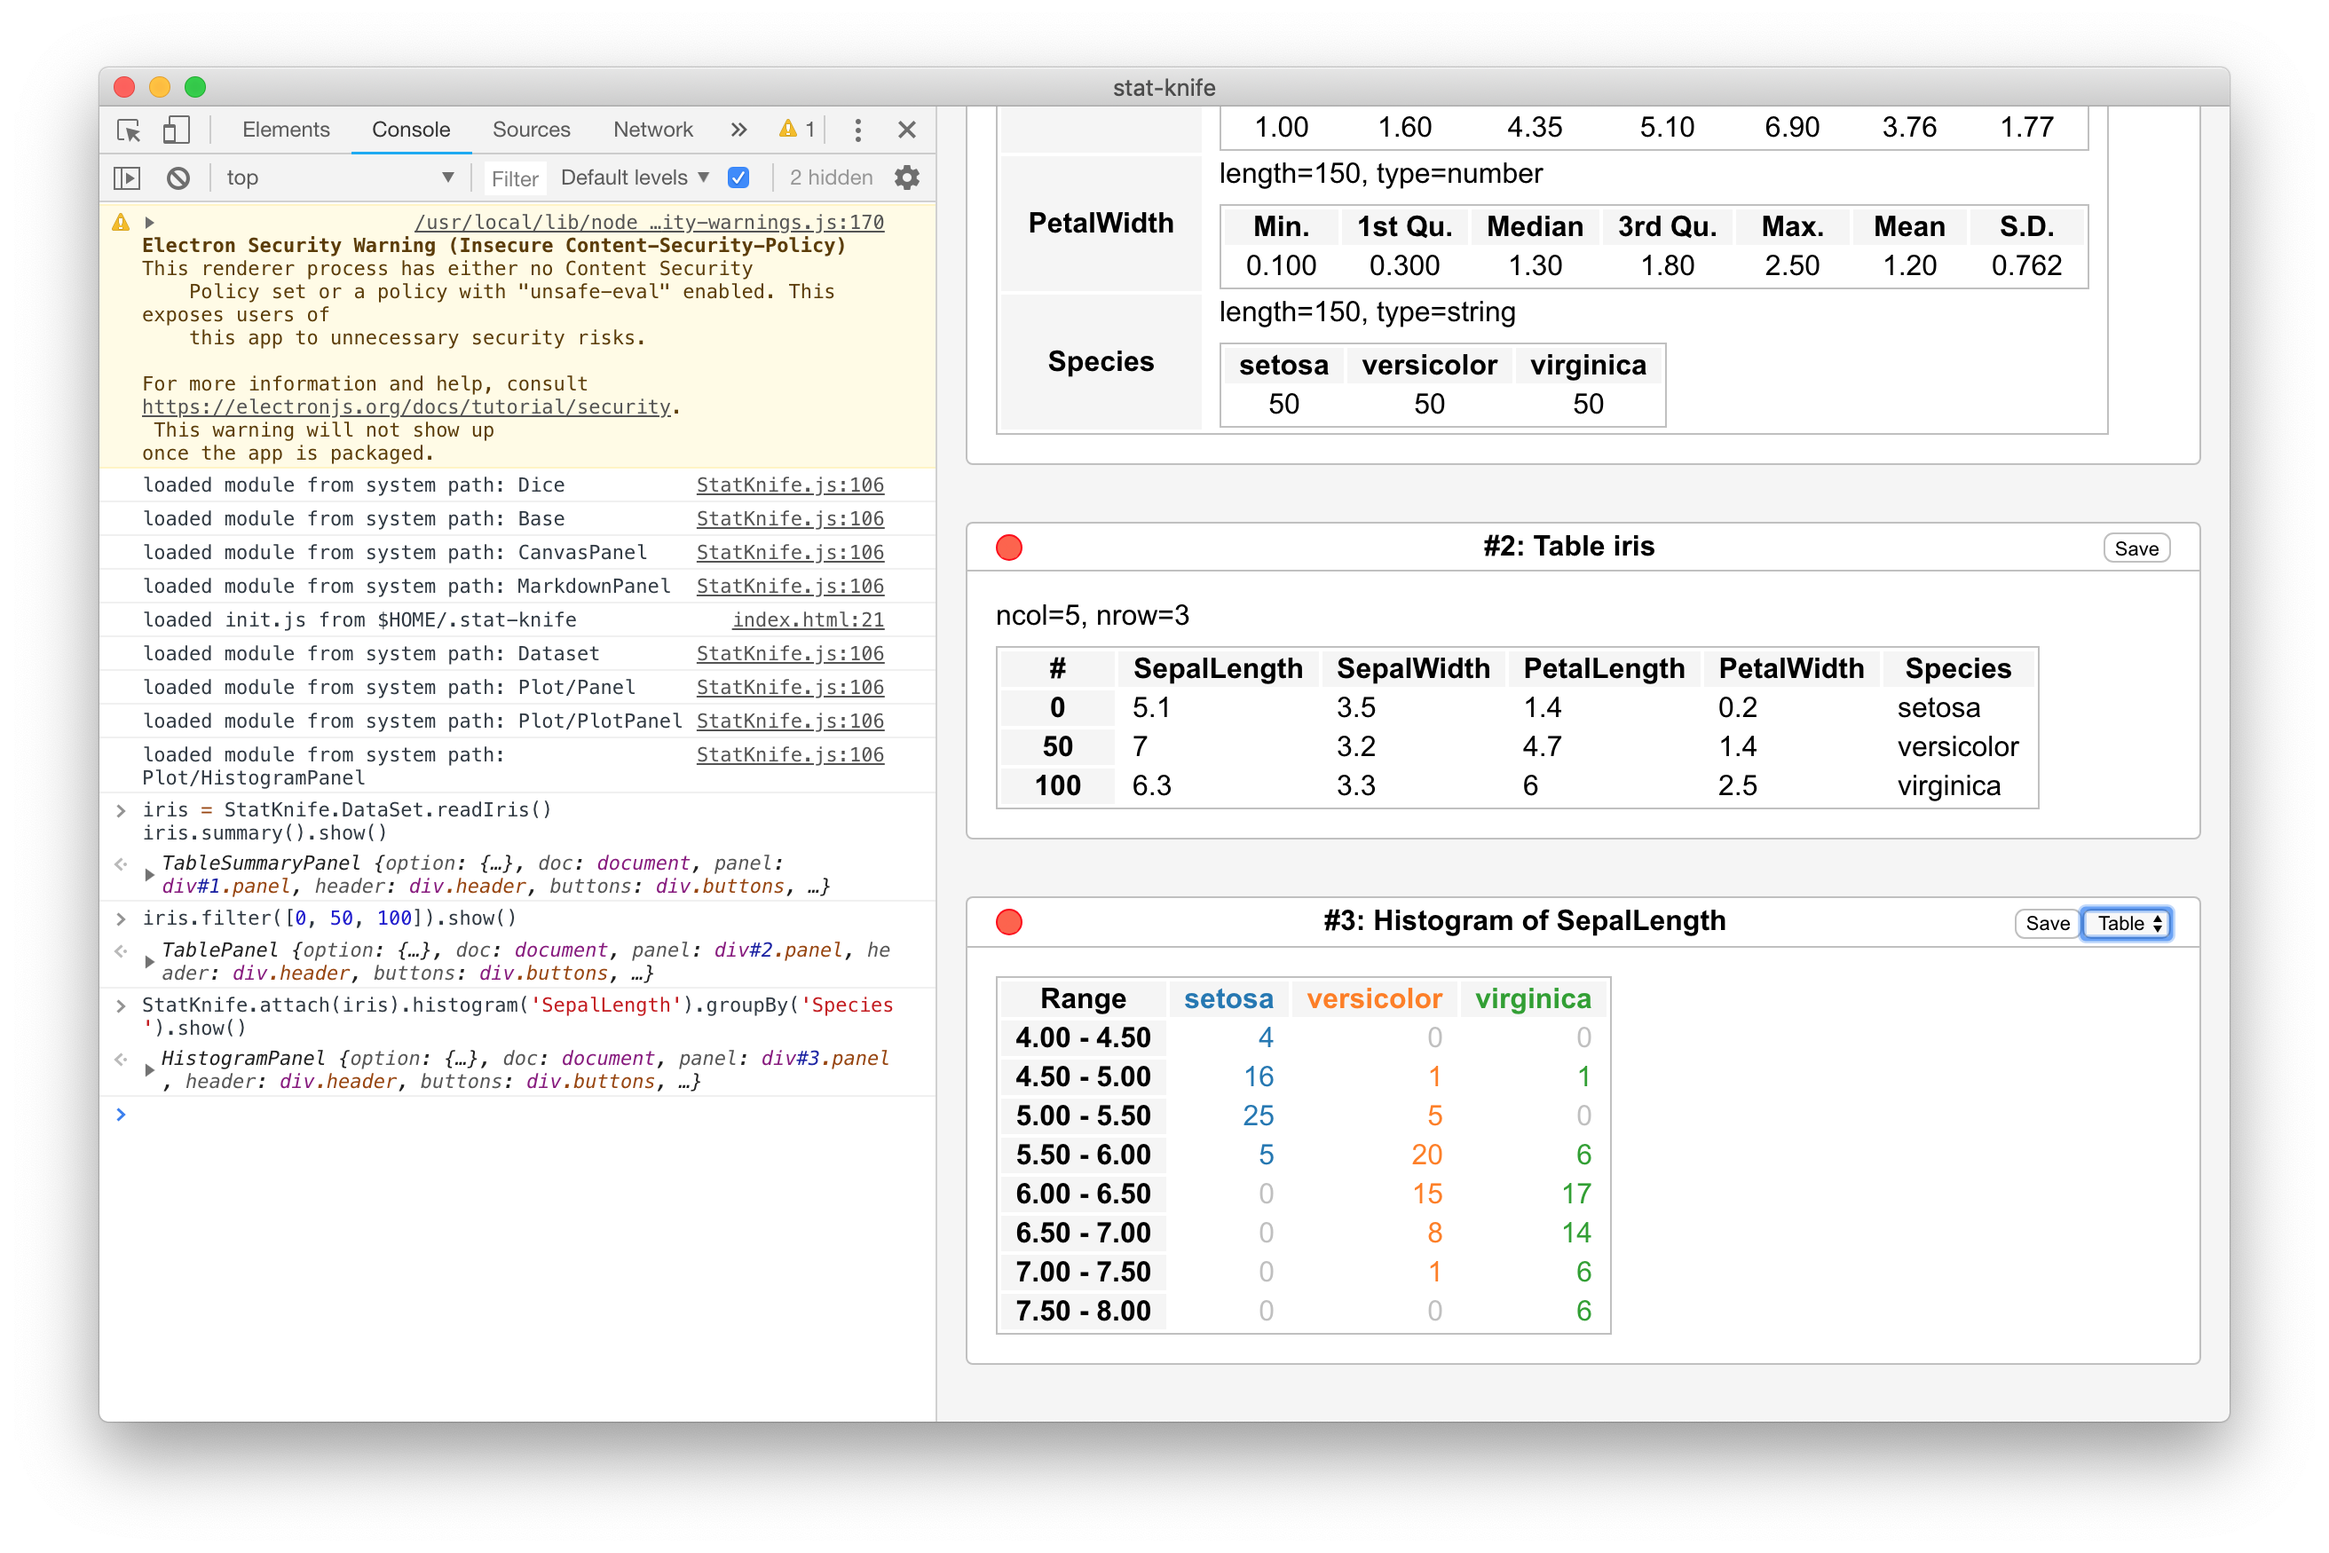
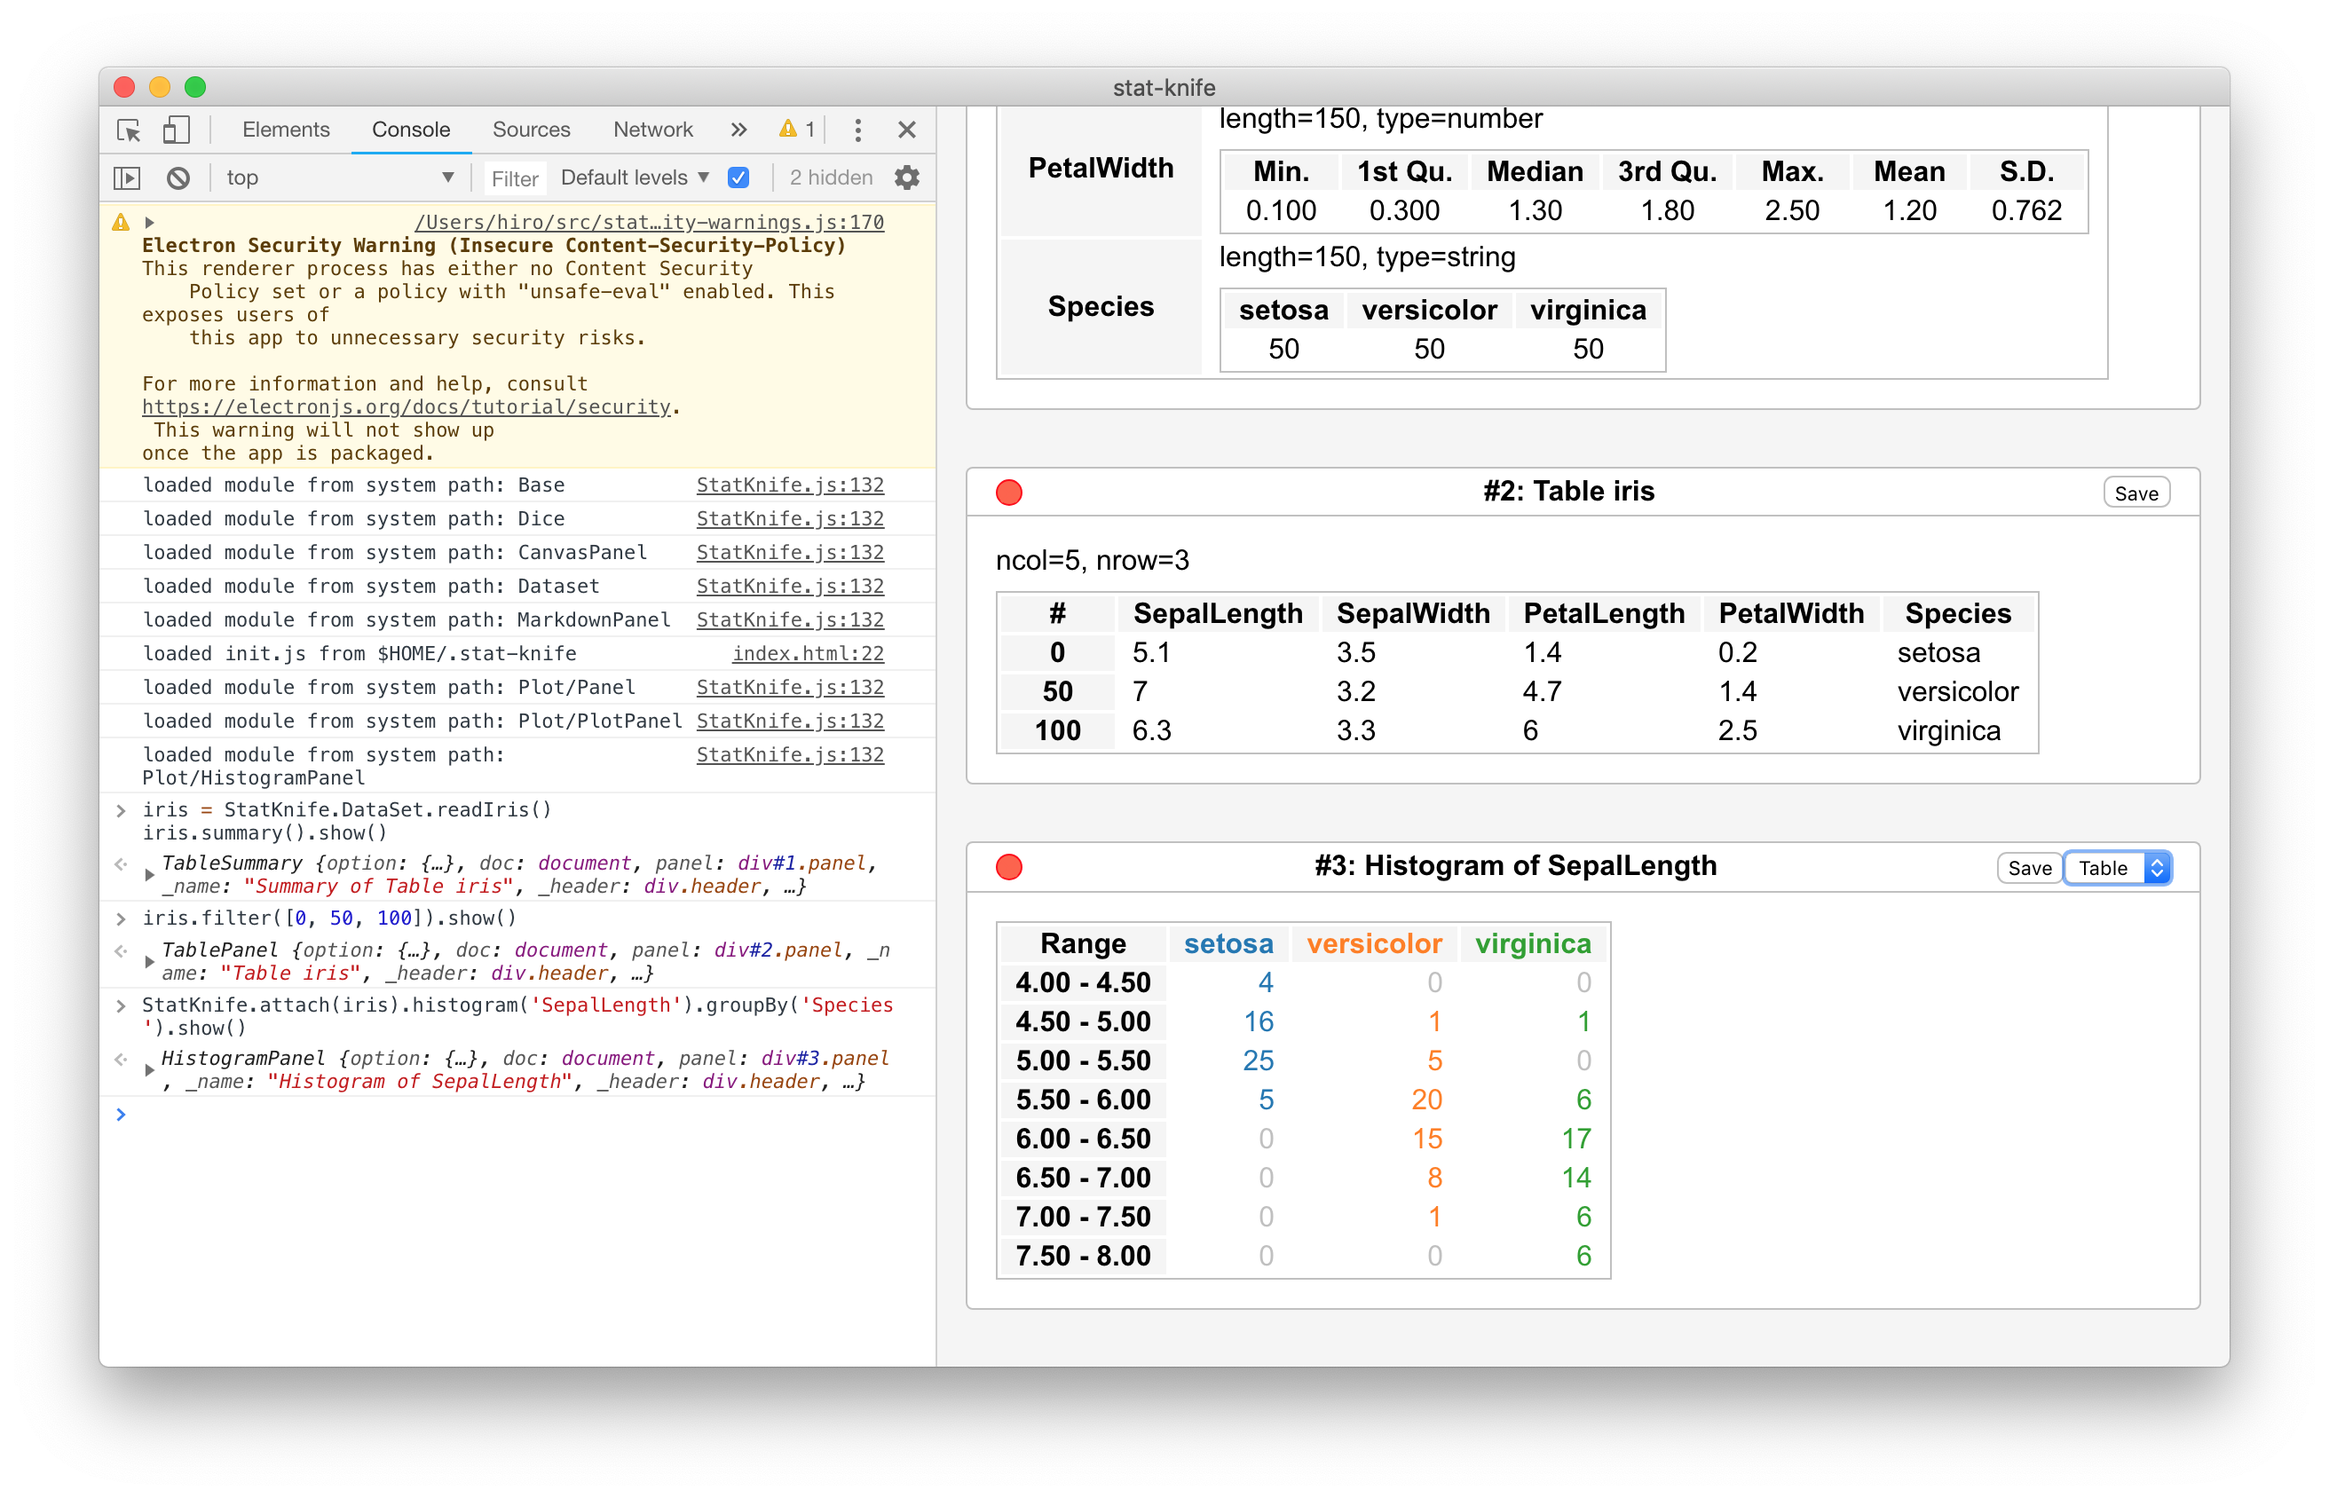
Refactored panel implementations

diff --git a/lib/DataSet.js b/lib/DataSet.js
@@ -29,16 +29,8 @@ Array.prototype.moment = function(order) {
   return s/this.length;
 };
 Array.prototype.quantiles = function(ps) {
-  const s = (new Array(...this)).sort((x, y) => x - y);
-  const n = s.length;
-  const qs = {};
-  for (const p of ps) {
-    const i = (p*(n-1)).floor(), j = (p*(n-1)).ceil();
-    const t = p*(n-1) - i;
-    qs[p] = (1-t)*s[i] + t*s[j];
-  }
-  return qs;
-};
+  return new ArrayQuantiles(this, ps);
+}
 Array.prototype.sd = function() {
   return Math.sqrt(this.var());
 };
@@ -61,25 +53,68 @@ Array.prototype.var = function() {
   return s/(this.length - 1);
 };
 
-export class ArraySummaryPanel extends StatKnife.Panel {
+export class ArrayQuantiles extends StatKnife.Panel {
+  constructor(data, ps, ...args) {
+    super('Quantiles of Array', ...args);
+    this.data = data;
+    this.ps = ps || [0.00, 0.25, 0.50, 0.75, 1.00];
+    this.name(`Quantiles of ${this.typename.capitalizeFirst()}Array`);
+  }
+  get typename() {
+    return this.data.typename();
+  }
+  get container() {
+    const container = super.container;
+    if (!this.quantileHeader) {
+      this.quantileHeader = container.createChild('div').attrs({'class': 'header'});
+      this.quantileHeader.setElem(`length=${this.data.length}, type=${this.typename}`);
+      this.quantileTable = container.createChild('table');
+      for (const key of this.ps) {
+        this.quantileTable.appendRow([this.doc.createElem('th').setElem(`${(key*100).toPrecision(3)}%`), this.table[key]]);
+      }
+    }
+    return container;
+  }
+  get table() {
+    if (!this._table) {
+      const s = (new Array(...this.data)).sort((x, y) => x - y);
+      const n = s.length;
+      this._table = {};
+      for (const p of this.ps) {
+        const i = (p*(n-1)).floor(), j = (p*(n-1)).ceil();
+        const t = p*(n-1) - i;
+        this._table[p] = (1-t)*s[i] + t*s[j];
+      }
+    }
+    return this._table;
+  }
+}
+
+export class ArraySummary extends StatKnife.Panel {
   constructor(data, ...args) {
     super('Summary of Array', ...args);
     this.data = data;
     this.name(`Summary of ${this.typename.capitalizeFirst()}Array`);
-    this.summaryHeader = this.container.createChild('div').attrs({'class': 'header'});
-    this.summaryHeader.setElem(`length=${this.data.length}, type=${this.typename}`);
-    this.summaryTable = this.container.createChild('table');
-    const hdrrow = this.summaryTable.createChild('tr');
-    for (const key in this.table) {
-      hdrrow.createChild('th').setElem(key);
-    }
-    const valrow = this.summaryTable.createChild('tr');
-    for (let value of Object.values(this.table)) {
-      if (this.typename == typeof(0) && typeof(value) == typeof(0)) {
-        value = value.toPrecision(3);
+  }
+  get container() {
+    const container = super.container;
+    if (!this.summaryHeader) {
+      this.summaryHeader = container.createChild('div').attrs({'class': 'header'});
+      this.summaryHeader.setElem(`length=${this.data.length}, type=${this.typename}`);
+      this.summaryTable = container.createChild('table');
+      const hdrrow = this.summaryTable.createChild('tr');
+      for (const key in this.table) {
+        hdrrow.createChild('th').setElem(key);
       }
-      valrow.createChild('td').attrs({class: 'center'}).setElem(value);
+      const valrow = this.summaryTable.createChild('tr');
+      for (let value of Object.values(this.table)) {
+        if (this.typename == typeof(0) && typeof(value) == typeof(0)) {
+          value = value.toPrecision(3);
+        }
+        valrow.createChild('td').attrs({class: 'center'}).setElem(value);
+      }
     }
+    return container;
   }
   get typename() {
     return this.data.typename();
@@ -87,7 +122,7 @@ export class ArraySummaryPanel extends StatKnife.Panel {
   get table() {
     if (!this._table) {
       if (this.typename == typeof(0)) {
-        const qs = this.data.quantiles([0.00, 0.25, 0.50, 0.75, 1.00]);
+        const qs = this.data.quantiles().table;
         this._table = {
           'Min.': qs[0.00], '1st Qu.': qs[0.25], 'Median': qs[0.50], '3rd Qu.': qs[0.75], 'Max.': qs[1.00],
           'Mean': this.data.mean(), 'S.D.': this.data.sd(),
@@ -127,7 +162,7 @@ Array.prototype.count = function(cb) {
 };
 
 Array.prototype.summary = function(...args) {
-  return new ArraySummaryPanel(this, ...args);
+  return new ArraySummary(this, ...args);
 };
 (function*() {})().__proto__.__proto__.summary = function(...args) {
   return this.toArray().summary(...args);
@@ -142,7 +177,7 @@ function() {
 
 Symbol.rowid = Symbol('Table.rowid');
 export class Table extends Array {
-  constructor(...args) {
+  constructor() {
     throw 'cannot call Table.constructor, use toTable method instead';
   }
   get ncol() {
@@ -189,7 +224,7 @@ export class Table extends Array {
     return new TablePanel(this, {show: true});
   }
   summary(...args) {
-    return new TableSummaryPanel(this, ...args);
+    return new TableSummary(this, ...args);
   }
 }
 
@@ -233,19 +268,29 @@ export class TablePanel extends StatKnife.Panel {
   }
 }
 
-export class TableSummaryPanel extends StatKnife.Panel {
+export class TableSummary extends StatKnife.Panel {
   constructor(tbl, ...args) {
     super(`Summary of Table ${tbl.name}`, ...args);
     this.tbl = tbl;
-    this.summaryHeader = this.container.createChild('div').attrs({'class': 'header'});
-    this.summaryHeader.setElem(`ncol=${this.tbl.ncol}, nrow=${this.tbl.nrow}`);
-    this.summaryTable = this.container.createChild('table');
+    this.summaries = {};
     for (const colname of this.tbl.colnames) {
-      this.summaryTable.appendRow([
-        this.doc.createElem('th').setElem(colname),
-        this.tbl.column(colname).summary().container
-      ]);
+      this.summaries[colname] = this.tbl.column(colname).summary();
     }
+  }
+  get container() {
+    const container = super.container;
+    if (!this.summaryHeader) {
+      this.summaryHeader = container.createChild('div').attrs({'class': 'header'});
+      this.summaryHeader.setElem(`ncol=${this.tbl.ncol}, nrow=${this.tbl.nrow}`);
+      this.summaryTable = container.createChild('table');
+      for (const colname of this.tbl.colnames) {
+        this.summaryTable.appendRow([
+          this.doc.createElem('th').setElem(colname),
+          this.summaries[colname].container
+        ]);
+      }
+    }
+    return container;
   }
 }
 
@@ -296,8 +341,8 @@ export default class DataSet {
     StatKnife.seq = this.seq;
   }
 
-  static seq(min, sup) {
-    return Array.from((new Array(sup - min)).keys(), (_, i) => min + i);
+  static seq(min, sup, by=1.0) {
+    return Array.from((new Array((sup - min)/by)).keys(), (_, i) => min + i*by);
   }
 
   static createTable(...args) {

diff --git a/lib/StatKnife.js b/lib/StatKnife.js
@@ -5,20 +5,34 @@ export class Panel {
     this.option = StatKnife.setDefault(option, {show: false});
     this.doc = StatKnife.doc;
     this.panel = this.doc.createElem('div').attrs({class: 'panel'});
-    this.header = this.panel.createChild('div').attrs({class: 'header'});
-    this.buttons = this.header.createChild('div').attrs({class: 'buttons'});
-    this.buttonRemove = this.buttons.createChild('span').addClass('button').addClass('close').addClass('vertically-middle').setElem('\u2715');
-    this.buttonRemove.onclick = () => StatKnife.removePanel(this.id());
-    this.title = this.header.createChild('div').attrs({class: 'title'});
-    this.controllers = this.header.createChild('div').attrs({class: 'controllers'});
-    this.buttonSave = this.controllers.createChild('button').setElem('Save');
-    this.buttonSave.onclick = () => this.save();
-    this.container = this.panel.createChild('div').attrs({class: 'container'});
     this.name(name);
     this.id(null);
     if (this.option.show) {
       this.show();
     }
+  }
+  get container() {
+    if (!this._container) {
+      this._container = this.panel.createChild('div').attrs({class: 'container'});
+    }
+    return this._container;
+  }
+  get controllers() {
+    if (!this._controllers) {
+      this._controllers = this.header.createChild('div').attrs({class: 'controllers'});
+      this.buttonSave = this.controllers.createChild('button').setElem('Save');
+      this.buttonSave.onclick = () => this.save();
+    }
+    return this._controllers;
+  }
+  get header() {
+    if (!this._header) {
+      this._header = this.panel.createChild('div').attrs({class: 'header'});
+      this.buttons = this.header.createChild('div').attrs({class: 'buttons'});
+      this.buttonRemove = this.buttons.createChild('span').addClass('button').addClass('close').addClass('vertically-middle').setElem('\u2715');
+      this.buttonRemove.onclick = () => StatKnife.removePanel(this.id());
+    }
+    return this._header;
   }
   id(value) {
     if (value === undefined) {
@@ -37,10 +51,19 @@ export class Panel {
     this.updateTitle();
     return this;
   }
+  get title() {
+    if (!this._title) {
+      this._title = this.header.createChild('div').attrs({class: 'title'});
+    }
+    return this._title;
+  }
   updateTitle() {
     this.title.innerText = `#${this.id()}: ${this.name()}`;
   }
   show() {
+    this.header;
+    this.controllers;
+    this.container;
     return StatKnife.appendPanel(this);
   }
 

diff --git a/README.md b/README.md
@@ -34,7 +34,7 @@ StatKnife.attach(iris).plot('SepalWidth', 'SepalLength').groupBy('Species').show
 
 ```js
 dice = new StatKnife.Dice(20190216)
-sampleNorm = Array(100000).fill(0.0).map((_, i) => dice.uniformDist()())
+sampleNorm = Array(100000).fill(0.0).map((_, i) => dice.normalDist()())
 sampleNorm.summary().show()
 StatKnife.attach(sampleNorm).histogram('value').thresholds(100).show()
 ```
